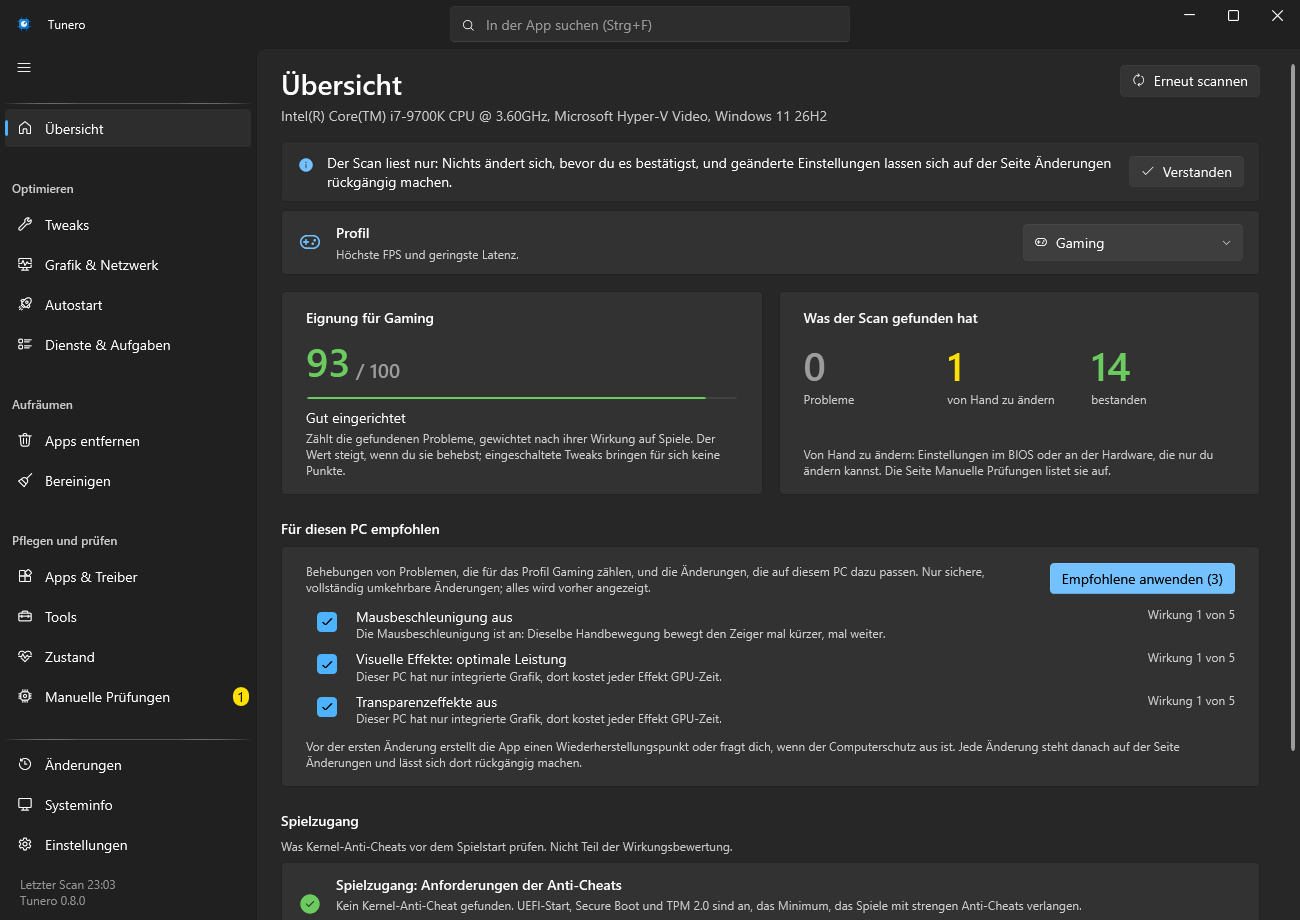
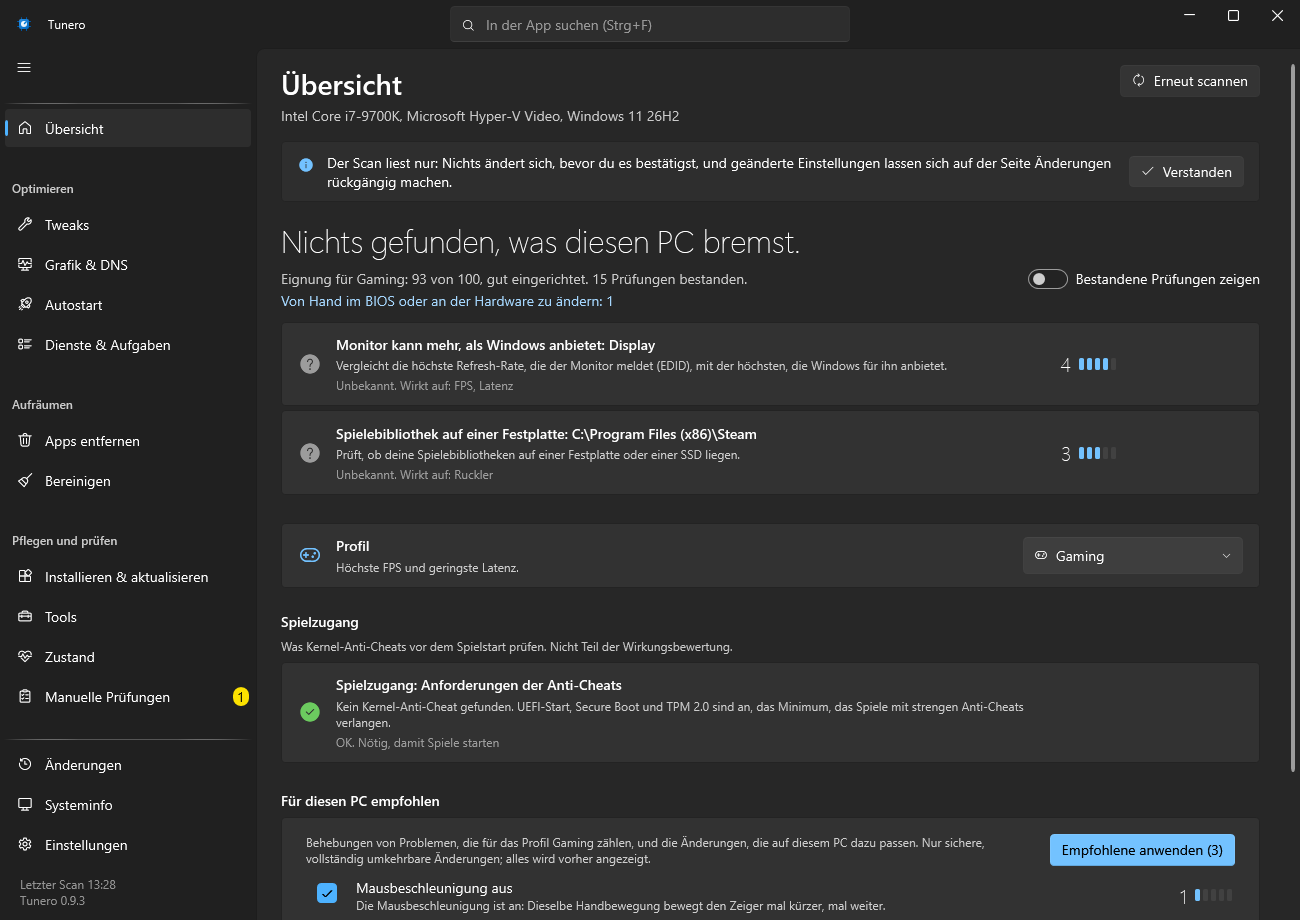
Website: Overview and Tweaks screenshots of the new UI, rendered in the VM
The eight screenshots show the Overview that opens with its verdict and the rating mark on every row, rendered
elevated in the test VM at 1300 x 920 like before. The alt texts no longer describe the score cards, the rating
section says the app shows the same rating next to every check and tweak, and og.png uses the new Overview.

diff --git a/website/src/i18n/de.ts b/website/src/i18n/de.ts
@@ -22,13 +22,13 @@ const de: Copy = {
     previewLink: 'Warum',
     shotCaption: 'Die Übersicht nach einem Scan, auf einem Test-PC in einer virtuellen Maschine.',
     shotAlt:
-      'Die Übersicht von Tunero: die Eignung, was der Scan gefunden hat, und die empfohlenen Änderungen als Checkliste mit „Empfohlene anwenden“.',
+      'Die Übersicht von Tunero: das Urteil des Scans, die Eignung in einer Zeile, die Ergebnisse mit ihrer Wirkung und der Anfang der empfohlenen Änderungen.',
   },
   impact: {
     title: 'Eine 5 gibt es nur für Probleme, die der Scan findet. Für keinen Tweak.',
     body: (n, matter) => [
       'Prüfungen und Tweaks teilen sich eine Skala für Spiele, von 0 bis 5. Den größten Unterschied machen Probleme, die der Scan findet, etwa ein Monitor unter seiner Bildwiederholrate oder eine CPU, die beim Basistakt festhängt.',
-      `Von den ${n} Tweaks können ${matter} für Spiele zählen, manche nur auf manchen PCs: „CPU-Turbo wiederherstellen“ hat eine 4, wo der Energiesparplan die CPU beim Basistakt hält, und überall sonst eine 0. Die App bewertet jeden Tweak für den PC, auf dem sie läuft.`,
+      `Von den ${n} Tweaks können ${matter} für Spiele zählen, manche nur auf manchen PCs: „CPU-Turbo wiederherstellen“ hat eine 4, wo der Energiesparplan die CPU beim Basistakt hält, und überall sonst eine 0. Die App bewertet jeden Tweak für den PC, auf dem sie läuft, und zeigt die Wertung neben jeder Prüfung und jedem Tweak als Zahl und fünf Balken.`,
     ],
     top: 'Probleme, die der Scan findet. Er behebt sie oder sagt dir, wie.',
     topRow: (n) => `Wirkung 5: ${n} Probleme, die der Scan findet`,
@@ -74,7 +74,7 @@ const de: Copy = {
       'Änderungen, die Sicherheitsfunktionen ausschalten oder die Startkonfiguration ändern, bleiben im Expertenmodus, und keine davon wird je automatisch empfohlen. Ein Tweak, der auf echter Hardware noch nicht erprobt ist, trägt das Abzeichen „Noch nicht auf einem echten PC getestet“ und ist nie Teil von „Empfohlene anwenden“.',
     ],
     shotAlt:
-      'Die Seite Tweaks von Tunero, gewählt ist „Mausbeschleunigung aus“: Gruppen von Tweaks mit Schaltern und die Erklärung im Detailbereich.',
+      'Die Seite Tweaks von Tunero, gewählt ist „Mausbeschleunigung aus“: Gruppen von Tweaks mit ihrer Wirkung und Schaltern und die Erklärung im Detailbereich.',
     shotCaption: 'Derselbe Tweak auf der Seite Tweaks.',
   },
   left: {

diff --git a/website/src/i18n/en.ts b/website/src/i18n/en.ts
@@ -22,13 +22,13 @@ const en: Copy = {
     previewLink: 'Why',
     shotCaption: 'The Overview after a scan, on a test PC in a virtual machine.',
     shotAlt:
-      'The Overview page of Tunero: the readiness score, what the scan found, and the recommended changes as a checklist with Apply recommended.',
+      'The Overview page of Tunero: the verdict of the scan, the readiness score in one line, the findings with their impact rating, and the start of the recommended changes.',
   },
   impact: {
     title: 'Only problems the scan finds rate 5. No tweak does.',
     body: (n, matter) => [
       'Checks and tweaks share one scale for games, from 0 to 5. The largest gains come from problems the scan finds, such as a monitor below its refresh rate or a processor held at its base clock.',
-      `Of the ${n} tweaks, ${matter} can matter for games, some only on some PCs: Restore processor turbo rates 4 where the power plan holds the processor at its base clock, and 0 everywhere else. The app rates each tweak for the PC it runs on.`,
+      `Of the ${n} tweaks, ${matter} can matter for games, some only on some PCs: Restore processor turbo rates 4 where the power plan holds the processor at its base clock, and 0 everywhere else. The app rates each tweak for the PC it runs on and shows the rating next to every check and tweak, as a number and five bars.`,
     ],
     top: 'Problems the scan finds. It fixes them or tells you how.',
     topRow: (n) => `Rated 5: ${n} problems the scan finds`,
@@ -74,7 +74,7 @@ const en: Copy = {
       'Changes that turn off security features or touch the boot configuration stay behind Expert mode, and none of them is ever recommended automatically. A tweak that is not yet proven on real hardware carries the badge "Not yet tested on a real PC" and is never part of Apply recommended.',
     ],
     shotAlt:
-      'The Tweaks page of Tunero with Mouse acceleration off selected: groups of tweaks with switches, and its explanation in the details pane.',
+      'The Tweaks page of Tunero with Mouse acceleration off selected: groups of tweaks with their impact rating and switches, and its explanation in the details pane.',
     shotCaption: 'The same tweak on the Tweaks page.',
   },
   left: {
